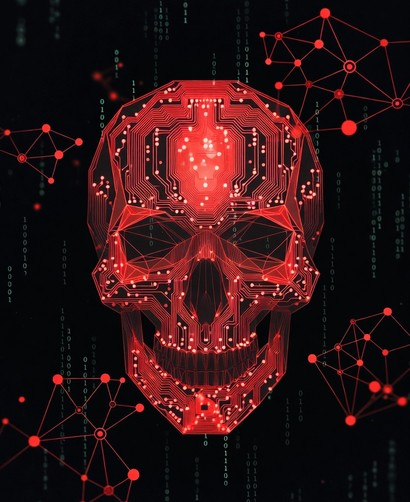
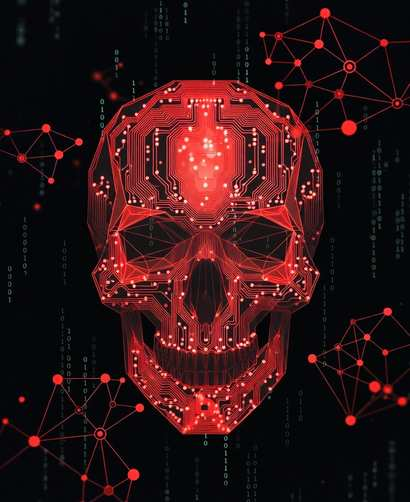
fix: guard Offense wallpaper decode against SRAM OOM boot-loop
Entering Offense decoded offense.jpg at RUNTIME, where the internal SRAM is
fragmented and low (heap dips to ~35KB with radios up). The JPEG decoder buffers
the whole compressed file in internal SRAM, so the decode OOM'd and panicked -
a boot-loop on Offense entry.

Fix (background.cpp background_apply_mode):
- Hard guard: skip the wallpaper (re)decode unless heap_caps_get_largest_free_block
  (MALLOC_CAP_INTERNAL) is >= 80KB. If it isn't, leave the current wallpaper (no
  skull this entry) rather than crash. Leaving Offense with low SRAM HIDES the
  wallpaper instead of decoding, so the skull can never persist into an innocent
  mode (opsec) and never triggers a low-memory decode.
- Shrink offense.jpg from ~59KB to ~25KB so the decode need is far under the guard.
- Lower Offense wallpaper opacity 190 -> 150 for clock-digit legibility.

diff --git a/src/background.cpp b/src/background.cpp
@@ -3,15 +3,26 @@
 #include "argus_mode.h"
 #include <LilyGoLib.h>
 #include <SD.h>
+#include <esp_heap_caps.h>   // heap_caps_get_largest_free_block
 #include <string.h>
 #include <ctype.h>
 #include <stdio.h>
 
-// Opacity of the Offense operator wallpaper (skull). Much more present than the
-// faint day-to-day wallpaper (75) since it IS the Offense identity, not a subtle
-// backdrop. The clock digits stay readable over the near-black art.
-static constexpr uint8_t kOffenseWallpaperOpa = 190;
+// Opacity of the Offense operator wallpaper (skull). More present than the faint
+// day-to-day wallpaper (75) since it IS the Offense identity, but kept moderate
+// so the clock digits stay readable over the near-black art.
+static constexpr uint8_t kOffenseWallpaperOpa = 150;
 static constexpr uint8_t kDailyWallpaperOpa   = 75;
+
+// A JPEG/PNG wallpaper buffers its WHOLE compressed file in scarce INTERNAL SRAM
+// while decoding. The boot-time load is safe (~100-130 KB free then), but the
+// Offense wallpaper is (re)decoded at RUNTIME on the mode swap, where the heap is
+// fragmented and low (esp. after radios) - a decode there OOMs and panics /
+// boot-loops (this bit us: entering Offense with offense.jpg crashed). So before
+// any runtime wallpaper (re)decode, require a contiguous internal block well
+// above the small offense.jpg (~25 KB); if it isn't there, SKIP the swap (keep
+// the current wallpaper) rather than risk the crash. Graceful, never fatal.
+static constexpr uint32_t kWallpaperDecodeMinFreeBytes = 80u * 1024u;
 
 // LVGL image object for the wallpaper plus a persistent path buffer LVGL
 // keeps referencing as the image source (must outlive the set_src call).
@@ -292,13 +303,30 @@ void background_apply_mode()
     if (!bg_img) return;
     bool offense = (argus_mode_current() == ArgusMode::Offense);
 
-    // Offense always shows its wallpaper (identity), regardless of the user's
-    // wallpaper toggle; other modes respect the toggle.
-    bool show = offense || bg_enabled;
-    bg_opa    = offense ? kOffenseWallpaperOpa : kDailyWallpaperOpa;
-    bg_loaded = false;   // force find_wallpaper() to re-pick for the new mode
+    // CRASH GUARD: this runs at RUNTIME where a fresh wallpaper decode can OOM the
+    // internal SRAM and panic (see kWallpaperDecodeMinFreeBytes). Never (re)decode
+    // without a safe contiguous block.
+    bool sram_ok =
+        heap_caps_get_largest_free_block(MALLOC_CAP_INTERNAL) >= kWallpaperDecodeMinFreeBytes;
 
-    if (show && load_source()) {
+    if (offense) {
+        // Show the skull only if there is safe SRAM to decode it; otherwise leave
+        // whatever wallpaper is already up (no skull this entry, but never a crash).
+        if (!sram_ok) return;
+        bg_opa = kOffenseWallpaperOpa;
+    } else {
+        // Leaving Offense: NEVER leave the skull up in an innocent mode (opsec). If
+        // SRAM is too low to safely reload the normal wallpaper, HIDE rather than
+        // decode; also hide when the user's wallpaper toggle is off.
+        if (!sram_ok || !bg_enabled) {
+            lv_obj_add_flag(bg_img, LV_OBJ_FLAG_HIDDEN);
+            return;
+        }
+        bg_opa = kDailyWallpaperOpa;
+    }
+
+    bg_loaded = false;   // force find_wallpaper() to re-pick for the new mode
+    if (load_source()) {
         lv_obj_move_background(bg_img);
         lv_obj_clear_flag(bg_img, LV_OBJ_FLAG_HIDDEN);
     } else {
